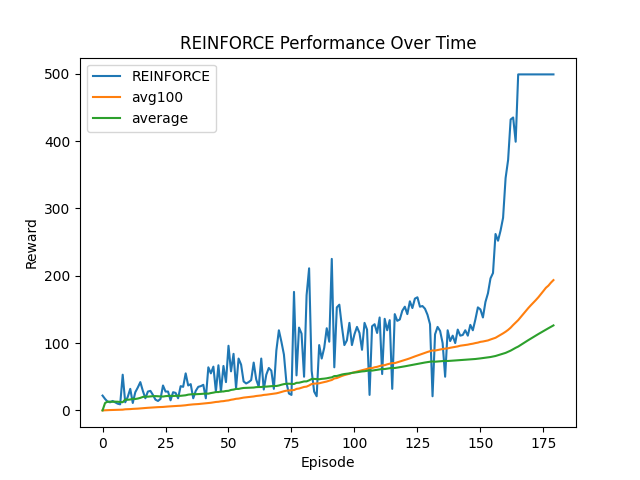
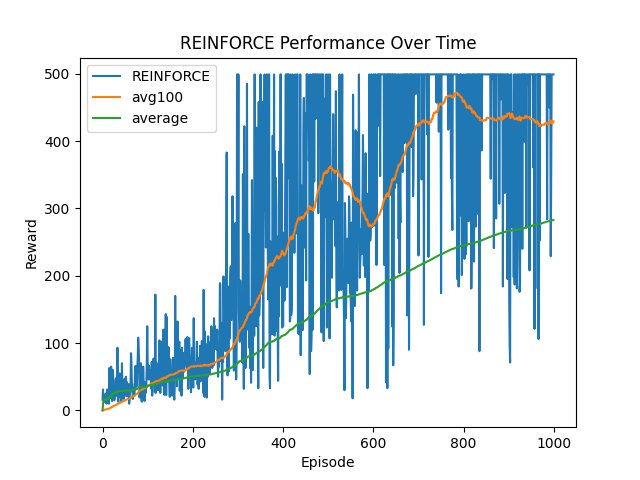
REINFORCE works nice this time and created plots

diff --git a/src/agents/reinforce.py b/src/agents/reinforce.py
@@ -42,8 +42,7 @@ class PolicyNetwork(nn.Module):
         """
 
         super().__init__()
-        self.layer1 = nn.Linear(n_observations, 32)
-        self.layer2 = nn.Linear(32, n_actions)
+        self.layer = nn.Linear(n_observations, n_actions)
 
     def forward(self, state: torch.Tensor) -> torch.Tensor:
         """ Defines the forward pass through the network.
@@ -55,8 +54,7 @@ class PolicyNetwork(nn.Module):
             The probability distribution over actions.
         """
 
-        state = F.relu(self.layer1(state))
-        state = self.layer2(state)
+        state = self.layer(state)
         return F.softmax(state, dim = 1)
 
 class ReinforceAgent:
@@ -206,7 +204,7 @@ if __name__ == "__main__":
     n_actions = env.action_space.n
 
     # Set the hyperparameters
-    num_episodes = 180
+    num_episodes = 1000
 
     # Declare a list to store the performance of the algorithm over seeds
     episode_durations_over_seeds = []
@@ -230,7 +228,7 @@ if __name__ == "__main__":
         episode_durations_over_seeds.append(episode_durations)
 
     # Plot the performance recorded over the last seed
-    seed_episode_durations = episode_durations_over_seeds[-1]
+    seed_episode_durations = episode_durations_over_seeds[0]
     plot_single_episode(algorithm="REINFORCE", episode_durations=seed_episode_durations, num_episodes=num_episodes)
 
     # Plot the performance of the algorithm over the seeds
